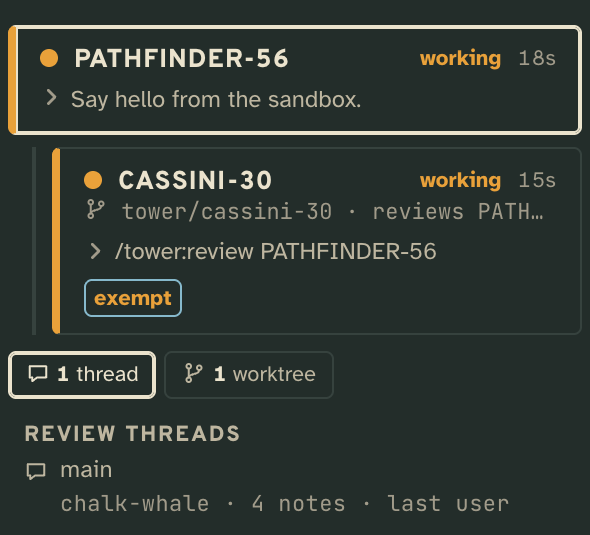
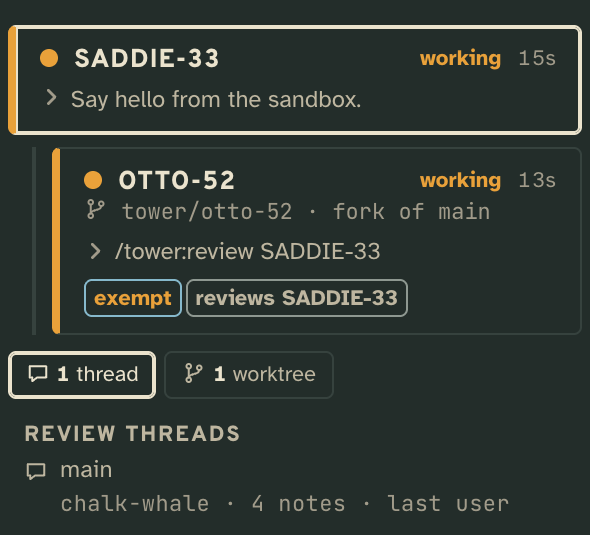
A reviewer's card says whose work it reviews with the reviews extension's badge
The sidebar read whose work a worker reviews from the reviews extension's client
and wrote it into the worker's branch row. The extension's card fold now adds the
badge, reviews and the callsign, and the branch row says only the core's own: the
branch, the checkout the worktree was forked from, and who hired it.

Tower 3D's desk panel draws the badge with the card's others and leaves it out of
its meta line, so it is said once; the desk's name tag, which is no region, still
writes it.

diff --git a/renderers/page/sidebar.js b/renderers/page/sidebar.js
@@ -1,7 +1,6 @@
 import { badgesOf, cardSubject, linesOf, floorSubject, heededAsks, projectOfKey, ATTENTION_NAME, WAITING_NAME, crewFoldsOf, crewTree, hiresBy, goneHome, goneHomeLine, loudest, lampOf, heededWaits, addedTidyOf, tidyLine, tidyRows, editedRows, carriedLine, LIMITS_STALE_MS, EXTENSION_ATTENTION, extensionLine, extensionTitle, extraUsageLine, limitsFromTitle, WORKTREE_STATE_NAME, WORKTREE_VERB_NAME, base, branchLine, callOf, can, dutyOrder, esc, pastCount, renderersHtml, shelfKind, shelfSource, risky, gistLine, goneBases, keptBranchLines, paceLine, pairLineOf, resetLine, span, statusName, statusWord, weekElapsed, worktreeBranch, worktreeRisk, strandedOf, workersIn, noun, plural, statusTitle, satellitesOf, subagentTitle, SUBAGENT_FADE_MS, tidyRowAsk } from '/cards.js'
 import { PROBE_ATTENTION, probeLine, probeTitle, quotaOf } from '/x/quota/quota.js'
 import { ICON, SHELF_ICON, originIcon, withIcons } from '/icons.js'
-import { reviewerOf } from '/x/reviews/reviews.js'
 import { onDuty, lineOf, $, fillOf, keyedTip, told } from './kit.js'
 import { keyshortcuts } from '/keymap.js'
 import { placeOnOpen } from '/tips.js'
@@ -72,7 +71,7 @@ export async function sidebar(deps) {
   const sessionHtml = (c, over) => {
     return `<div class="sess ${lampOf(c)} ${c.waiting ? 'waits' : ''} ${c.id === selected() ? 'sel' : ''} ${onDuty(c) ? '' : 'gone'}" data-id="${c.id}" data-hold="${c.id}">
     <div class="top"><span class="lamp"></span><a class="call" href="#${c.id}"${c.id === selected() ? ' aria-current="true"' : ''}>${callsign(c.id)}</a><span class="st${c.stuck ? ' stuck' : ''}" data-tip="${esc(statusTitle(c))}">${statusWord(c)}${c.stuck || c.stranded ? `<span class="sr-only">: ${esc(statusTitle(c))}</span>` : ''}</span><span class="ago" translate="no" data-since="${c.enteredAt}"></span></div>
-    ${c.worktree ? `<div class="branch" data-tip="worktree ${esc(c.worktree.name)}: ${esc(c.cwd)}">${withIcons(esc([branchLine(c), pairLineOf(c.hiredBy && c.hiredBy.callsign === over?.callsign ? { ...c, hiredBy: undefined } : c, reviewerOf(c))].filter(Boolean).join(' · ')))}</div>` : ''}
+    ${c.worktree ? `<div class="branch" data-tip="worktree ${esc(c.worktree.name)}: ${esc(c.cwd)}">${withIcons(esc([branchLine(c), pairLineOf(c.hiredBy && c.hiredBy.callsign === over?.callsign ? { ...c, hiredBy: undefined } : c, undefined)].filter(Boolean).join(' · ')))}</div>` : ''}
     ${linesOf(board(), c.id).map((l) => `<div class="adds-line" data-tip="${esc(l)}">${esc(l)}</div>`).join('')}
     <div class="line">${lineOf(c)}</div>
     ${badgesOf(board(), cardSubject(c)).length ? `<div class="badges">${badgesHtml(board(), cardSubject(c))}</div>` : ''}

diff --git a/renderers/tower3d/src/ui.ts b/renderers/tower3d/src/ui.ts
@@ -4,7 +4,6 @@ import { collectionTrayHtml, deleteAsk, itemFile, itemKind, itemPath, itemsCss, 
 import type { FloorCollection, FloorItem } from '../../../src/bridge/board.ts'
 import { keptTitle } from './kept.ts'
 import { cardReviews, floorThreadsOf, keepsThreads, threadCheckout } from '../../../extensions/reviews/client/panel.ts'
-import { reviewerOf } from '../../../extensions/reviews/client/reviews.ts'
 import { failedHtml, fileButtonsHtml, fileSpansHtml, usd } from '../../../src/shared/panels.ts'
 import { documentHtml, markdownHtml } from '../../../src/shared/markdown.ts'
 import { briefHtml as lineageBriefHtml, RESUMED_IDLE, resumedIdle, sessionLabel, sessionWhen, shownFrom, type BriefView } from '../../../src/shared/brief.ts'
@@ -325,7 +324,7 @@ export function deskHeadHtml(board: Board, c: Card, cards: Card[], floor: Floor 
     can(c, 'send-home') && askingButton(armed(`kill ${c.id}`), `data-act="kill" data-of="${esc(c.id)}" class="danger"`, 'Send home', `ends ${sentHome(cards, c).map((h) => h.callsign).join(', ')}`, sendHomeAsk(c, sentHome(cards, c))),
     `<button class="icon-btn" data-act="close" aria-label="back to walking" data-tip="back to walking (or click the world)">${ICON.close}</button>`,
   ].filter(Boolean).join('')
-  return `<span class="call">${esc(c.callsign)}</span>${pill(c)}${cardBadgesHtml(board, c)}${cardLinesHtml(board, c)}<span class="meta" data-tip="${esc(c.cwd)}">${esc(whereLineOf(c, floor, reviewerOf(c)))}</span>
+  return `<span class="call">${esc(c.callsign)}</span>${pill(c)}${cardBadgesHtml(board, c)}${cardLinesHtml(board, c)}<span class="meta" data-tip="${esc(c.cwd)}">${esc(whereLineOf(c, floor, undefined))}</span>
     <span class="stats">${stats}</span><span class="acts">${acts}</span>`
 }
 

diff --git a/extensions/reviews/server.ts b/extensions/reviews/server.ts
@@ -136,6 +136,7 @@ const start: Start = (ctx) => {
         return {
           x,
           actions: unreviewable(card, floor, of) ? [] : [{ verb: `${CAP}/hire`, call: { project: card.project, of: card.callsign } }],
+          ...(of && { badges: [{ label: `reviews ${of}`, tone: 'quiet', hint: `reviews the work of ${of}, on its review thread` }] }),
           ...(file && { marks: threadMarks(file.thread) }),
         }
       },

diff --git a/test/reviewers.test.ts b/test/reviewers.test.ts
@@ -55,7 +55,7 @@ const reviewsFolder = (logs: SessionLog[]): Folder => ({
   requires: [],
   wants: [],
   off: [],
-  specs: new Map([['card', { x: z.unknown(), adds: ['actions'] }]]),
+  specs: new Map([['card', { x: z.unknown(), adds: ['actions', 'badges'] }]]),
   folds: { card: (startReviews({} as StartCtx) as Started).folds!.card },
   commands: [],
   verbs: new Map([['reviews', new Set(['hire', 'append'])]]),

diff --git a/kb/entities/decisions/reviewer.md b/kb/entities/decisions/reviewer.md
@@ -100,10 +100,10 @@ and how its findings reach the author.
 - *The pair is logged.* The reviewer's `of` fact (`tower.x.reviews.of`), read while its crew edge is reviews' (a fork
   carries the fact and no edge), is the card's `x.reviews.of` ([`ofCard`](ref:hub/extensions/reviews/server.ts#ofCard),
   read by [`reviewerOf`](ref:hub/extensions/reviews/client/reviews.ts#reviewerOf), the reviews client's), copied back to `card.reviews` until 2.0; the
-  crew edge gives `card.crew` and `card.reportsTo`, and the fork's git record gives `card.worktree.from`. Both
-  renderers draw [`pairLineOf`](ref:hub/src/shared/worker-details.ts#pairLineOf) ("reviews MARCO-87"), given
-  the callsign `reviewerOf` reads, beside the branch,
-  Tower 3D on the desk's name tag. The words `tower whoami` and the card say include "exempt from hiring limits by
+  crew edge gives `card.crew` and `card.reportsTo`, and the fork's git record gives `card.worktree.from`. The card
+  fold adds the badge "reviews MARCO-87", which the tower page and Tower 3D's desk panel draw among the card's badges; Tower 3D draws
+  [`pairLineOf`](ref:hub/src/shared/worker-details.ts#pairLineOf) ("reviews MARCO-87"), given the callsign
+  `reviewerOf` reads, on the desk's name tag, as `tower agent` does in its line. The words `tower whoami` and the card say include "exempt from hiring limits by
   reviews".
 - *Reviewers of before 1.95.* Every reviewer spawned before the facts existed is known only by its first prompt. A
   session that logged neither `tower.exempt` nor `tower.reports-to`, whose launch prompt

diff --git a/kb/entities/decisions/verb-prompts.md b/kb/entities/decisions/verb-prompts.md
@@ -6,7 +6,7 @@
   "in": "tower3d",
   "status": "accepted",
   "date": "2026-10-04",
-  "reviewed": "2026-10-30",
+  "reviewed": "2026-11-01",
   "refs": ["hub/renderers/tower3d/src/acts.ts#offersOf", "hub/renderers/tower3d/src/acts.ts#OFFERS", "hub/renderers/tower3d/src/acts.ts#KEY", "hub/renderers/tower3d/src/acts.ts#HELD", "hub/renderers/tower3d/src/acts.ts#heldWhy", "hub/src/shared/health.ts#whyNot", "hub/renderers/tower3d/src/main.ts#onKey", "hub/renderers/tower3d/src/ui.ts#promptHtml", "hub/renderers/tower3d/index.html"]
 }
 ---

diff --git a/kb/entities/decisions/logbook.md b/kb/entities/decisions/logbook.md
@@ -6,7 +6,7 @@
   "in": "tower3d",
   "status": "accepted",
   "date": "2026-10-07",
-  "reviewed": "2026-10-31",
+  "reviewed": "2026-11-01",
   "refs": [
     "hub/renderers/tower3d/src/desk.ts#dressBinder",
     "hub/renderers/tower3d/src/desk.ts#monitorOf",

diff --git a/kb/entities/decisions/press-feedback.md b/kb/entities/decisions/press-feedback.md
@@ -6,7 +6,7 @@
   "in": "tower",
   "status": "accepted",
   "date": "2026-10-08",
-  "reviewed": "2026-10-31",
+  "reviewed": "2026-11-01",
   "refs": [
     "hub/src/shared/press.ts#pressing",
     "hub/renderers/page/dialogs.js#dialogs",
